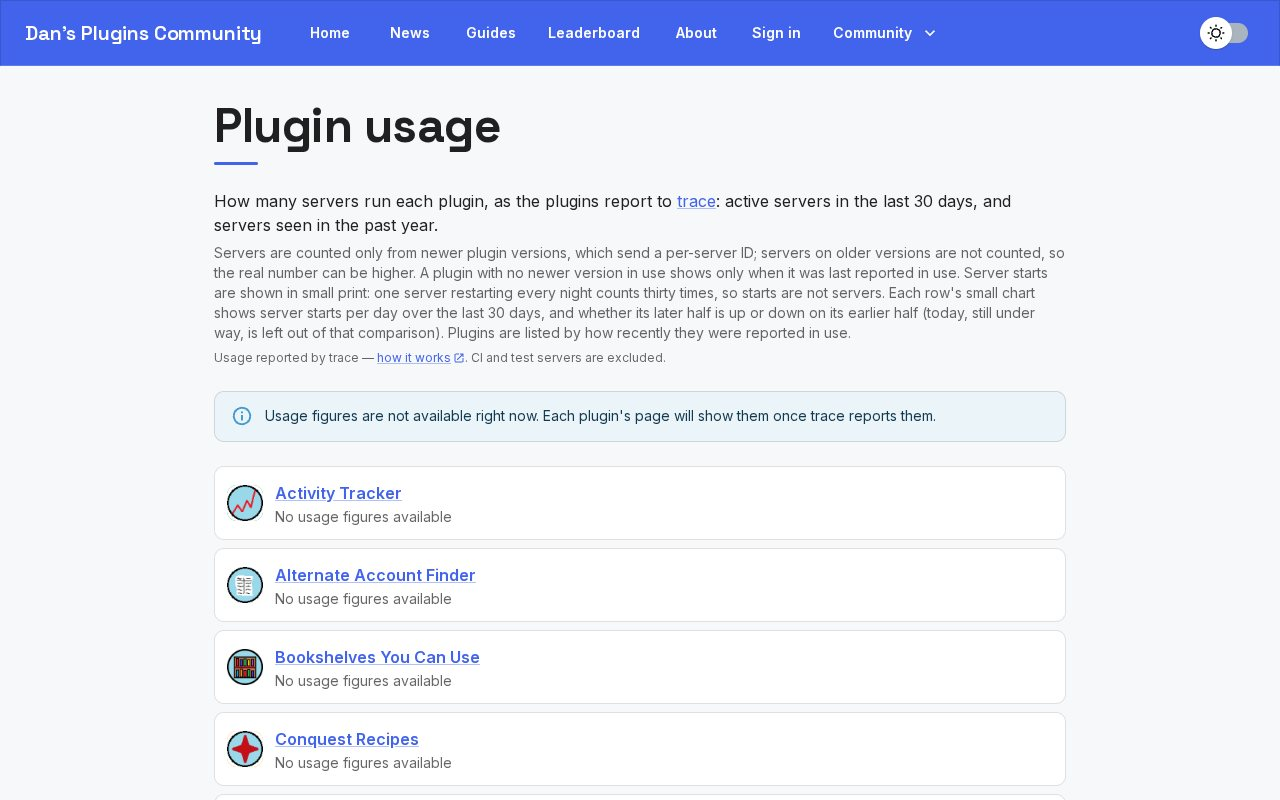
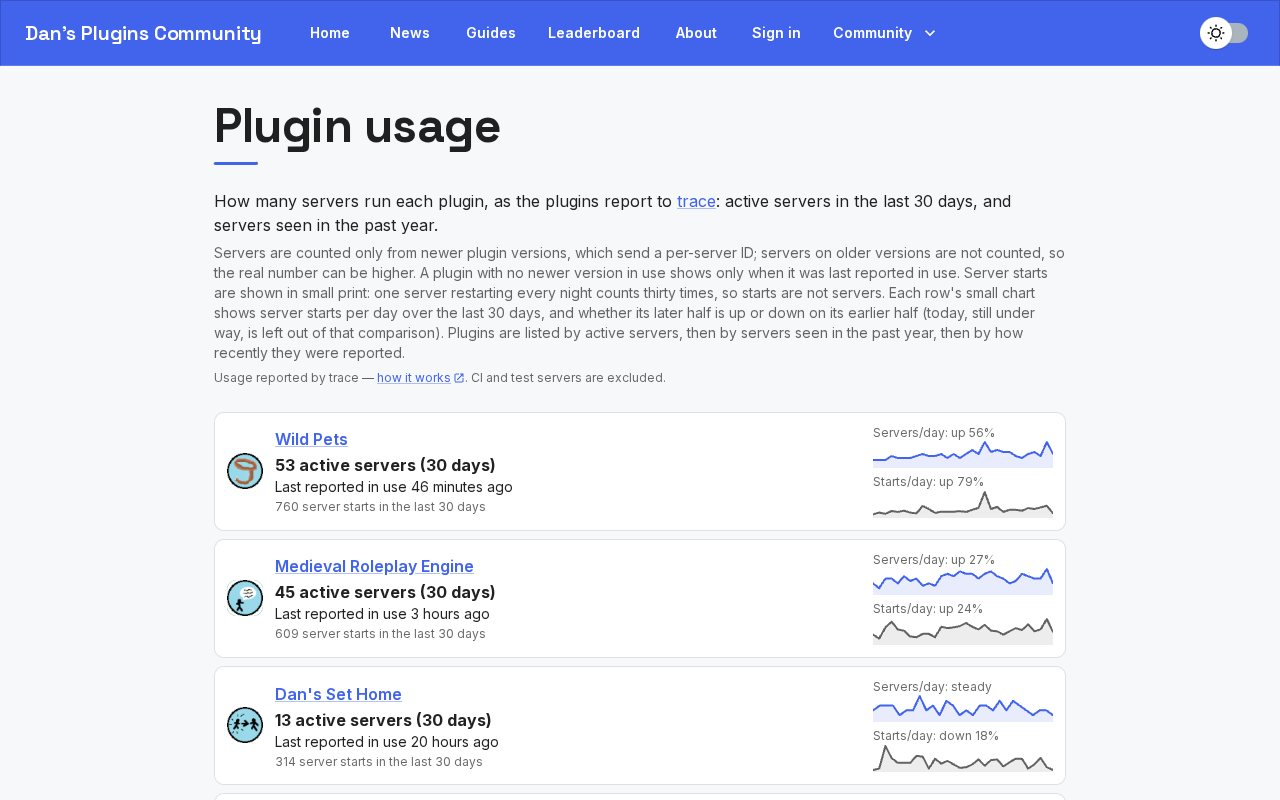
docs: reshoot the usage screenshot with real figures
trace was unreachable during the 0.18.0 shoot, so usage.jpg showed the
page's "figures are not available" notice. 0.18.1 refreshes the trace
summary in the background (#623), and /usage shows real figures again.
The image is reshot from the live site, and its caption and alt text go
back to describing the figures and the two per-day trend charts.

drafted by Claude on behalf of Daniel Stephenson

Claude-Session: https://claude.ai/code/session_01LYNeuoinn21ehLjsf9x3Gu

diff --git a/README.md b/README.md
@@ -69,7 +69,7 @@ Every image below is a real capture of the live site (click one for full size). 
 
 <table>
 <tr>
-  <td width="33%" valign="top"><a href="docs/images/usage.jpg"><img src="docs/images/usage.jpg" alt="The Plugin usage page with a notice that usage figures are not available right now, above plugin rows that each say No usage figures available" width="260"></a><br><sub>Plugin usage, shot while trace could not be reached: the page says the figures are unavailable instead of showing zeros. With trace up, each plugin shows its active servers and a 30-day trend.</sub></td>
+  <td width="33%" valign="top"><a href="docs/images/usage.jpg"><img src="docs/images/usage.jpg" alt="The Plugin usage page: rows for Wild Pets, Medieval Roleplay Engine and Dan's Set Home, each with active servers in the last 30 days, when it was last reported in use, and two small trend charts of servers and server starts per day" width="260"></a><br><sub>Plugin usage: active servers per plugin, with 30-day trends of servers and server starts per day.</sub></td>
   <td width="33%" valign="top"><a href="docs/images/leaderboard.jpg"><img src="docs/images/leaderboard.jpg" alt="The Faction Leaderboard: a table of factions ranked by member count, each with its server name, a copyable server address and a Discord link" width="260"></a><br><sub>The faction leaderboard, built from data Medieval Factions servers publish.</sub></td>
   <td width="33%" valign="top"><a href="docs/images/dev-portal.jpg"><img src="docs/images/dev-portal.jpg" alt="The Developer Portal: totals for open issues, open pull requests, drafts and the oldest open item, then a table of repositories with issue counts and a triage signal" width="260"></a><br><sub>The Dev Portal: every open issue and pull request across the organization at a glance (in the Community menu).</sub></td>
 </tr>

diff --git a/USER_GUIDE.md b/USER_GUIDE.md
@@ -186,10 +186,10 @@ No special software is required to use the website. Simply visit [https://danspl
 3. If trace cannot be reached, the page says the figures are unavailable rather than showing none.
 
 <p>
-  <a href="docs/images/usage.jpg"><img src="docs/images/usage.jpg" alt="The Plugin usage page with a notice that usage figures are not available right now, above plugin rows that each say No usage figures available" width="560"></a>
+  <a href="docs/images/usage.jpg"><img src="docs/images/usage.jpg" alt="The Plugin usage page: rows for Wild Pets, Medieval Roleplay Engine and Dan's Set Home, each with active servers in the last 30 days, when it was last reported in use, and two small trend charts of servers and server starts per day" width="560"></a>
 </p>
 
-*Plugin usage, shot while trace could not be reached: the page says the figures are unavailable instead of showing zeros. With trace up, each plugin shows its active servers and a 30-day trend.*
+*Plugin usage: active servers per plugin, with 30-day trends of servers and server starts per day.*
 
 ### Learning How Releases Are Checked
 
